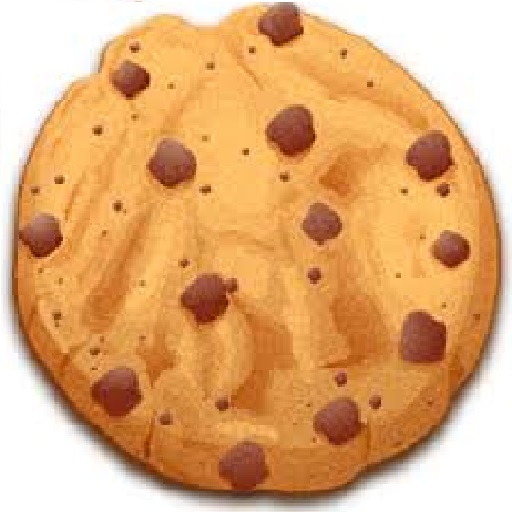
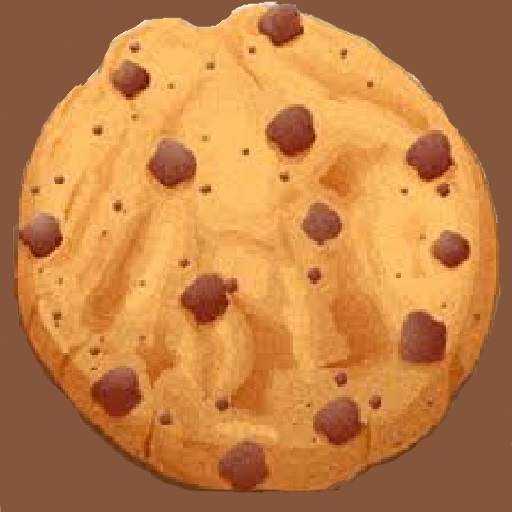
work from home

Changed region(s): [[0.0, 0.0, 1.0, 1.0]]

diff --git a/src/gameFiles/MainGame.java b/src/gameFiles/MainGame.java
@@ -4,6 +4,7 @@ import java.awt.BorderLayout;
 import java.awt.Color;
 import java.awt.FlowLayout;
 import java.awt.Font;
+import java.awt.event.MouseAdapter;
 import java.awt.event.MouseEvent;
 import java.awt.event.MouseListener;
 import java.awt.image.BufferedImage;
@@ -13,47 +14,97 @@ import javax.imageio.*;
 import javax.swing.*;
 
 public class MainGame implements MouseListener {
-
+	
+	//FINAL PIXEL LENGTHS (CONSTANTS)
 	static final int JFRAME_HEIGHT = 1080;
 	static final int JFRAME_LENGTH = 1920;
+	static final int vertcent = JFRAME_HEIGHT/2;
+	static final int horizcent = JFRAME_LENGTH/2;
 
+	//GAME TOOLS
+	private static int framecount;
 	static int score = 0;
+	static int cumulative_score = 0;
 	private int score_multiplier;
+	private static String cooklvstr = "";
+	private static int cooklvint = 0;
+	private final static int THRESHOLD1 = 5000;
+	private static boolean passedTH1;
+	private static boolean passedTH2;
+	private final static int THRESHOLD2 = 20000;
 
+	//J STUFF
 	private static JFrame frame = new JFrame("Cookie Clicker");
 	private static JTextArea ccta = new JTextArea("Cookies: " + score);
+	private static JPanel cookiepanel = new JPanel();
 
 	public MainGame() {
 		score_multiplier = 1;
+		framecount = 0;
+		passedTH1 = false;
+		passedTH2 = false;
 }
 
 	public static void main(String [] args) throws IOException {
 
 	/**********************INSTANTIATE********************************/
 		frame.setLayout(new BorderLayout());
-		JPanel cookiepanel = new JPanel();
 		ccta.setFont(new Font("Comic Sans MS", Font.BOLD, 40));
-    /***************ADD IMAGE AND CENTER WEST [LEFT]*******************/
-		BufferedImage cookimg = ImageIO.read(new File("H:\\Pics\\Cookie.png"));
+		JLabel bg1 = new JLabel();
+		bg1.setOpaque(true);
+		bg1.setBackground(new Color(132, 86, 60));
+		bg1.setLayout(null);
+		bg1.setBounds(0, 56, JFRAME_LENGTH-512, vertcent-247-40);
+		JLabel bg2 = new JLabel();
+		bg2.setOpaque(true);
+		bg2.setBackground(new Color(132, 86, 60));
+		bg2.setLayout(null);
+		bg2.setBounds(0, vertcent+256, JFRAME_LENGTH-512, JFRAME_HEIGHT-vertcent-256);
+    /***************ADD IMAGE AND CENTER WEST [LEFT]******************/
+		BufferedImage cookimg = ImageIO.read(new File("D:\\Everything else\\Eclipse\\TheGame\\src\\pics\\Cookie.jpg"));
 		JLabel label = new JLabel(new ImageIcon(cookimg));
 		cookiepanel.setLayout(new BorderLayout());
 		cookiepanel.add(label, BorderLayout.WEST);
-    /*****************************************************************/
+    /*************************JFRAME STUFF****************************/
+		frame.add(bg1);
+		frame.add(bg2);
 		frame.add(ccta, BorderLayout.NORTH);
 		frame.add(cookiepanel);
-		label.setLocation(10,10);
 		frame.setSize(JFRAME_LENGTH, JFRAME_HEIGHT);
 		frame.getContentPane().setBackground(Color.WHITE);
         frame.setLocationRelativeTo(null);
         frame.setDefaultCloseOperation(JFrame.EXIT_ON_CLOSE);
+        frame.setExtendedState(JFrame.MAXIMIZED_BOTH);
         frame.setVisible(true);
-
+    /****************************RUN GAME*****************************/
        runGame();
+    /**************************END OF MAIN****************************/
    }
 
-	public static void runGame() {
+	public static void runGame() throws IOException {
 		while(true) {
+			framecount++;
 			updateText(ccta);
+			frame.addMouseListener(new MouseAdapter() { 
+		          public void mousePressed(MouseEvent me) { 
+		            mouseClicked(me);
+		            System.out.println("MOUSE PRESSED");
+		          } 
+		        }); 
+			if(cumulative_score > THRESHOLD1) {
+				if(!passedTH1) {
+					upgradeCookie();
+					passedTH1 = true;
+				}
+			}
+			if(cumulative_score > THRESHOLD2) {
+				if(!passedTH2) {
+					upgradeCookie();
+					passedTH2 = true;
+				}
+			}
+			frame.setSize(JFRAME_LENGTH, JFRAME_HEIGHT);
+			frame.setExtendedState(JFrame.MAXIMIZED_BOTH);
 		}
 	}
 
@@ -61,20 +112,31 @@ public class MainGame implements MouseListener {
 		ta.setText("Cookies: " + score);
 		frame.add(ta);
 	}
+	
+	public static void updateImg(BufferedImage bi) {
+		JLabel newimglabel = new JLabel(new ImageIcon(bi));
+		cookiepanel.removeAll();
+		cookiepanel.add(newimglabel, BorderLayout.WEST);
+	}
 
 	public void mouseClicked(MouseEvent e) {
-		int vertcent = JFRAME_HEIGHT/2;
-		int horizcent = JFRAME_LENGTH/2;
 		if((e.getX()<512) && (Math.abs(e.getY()-vertcent)<256)){
 		cookieClicked();
 		}
 	}
 
 	public void cookieClicked() {
-   	System.out.println("COOKIE CLICKED!");
-   	score += score_multiplier;
+		System.out.println("COOKIE CLICKED!");
+		score += score_multiplier;
+		cumulative_score += score_multiplier;
    	}
-
+	
+	public static void upgradeCookie() throws IOException {
+		cooklvint++;
+		cooklvstr = String.valueOf(cooklvint);
+		BufferedImage bi = ImageIO.read(new File("D:\\Everything else\\Eclipse\\TheGame\\src\\pics\\Cookie"+ cooklvstr + ".jpg"));
+		updateImg(bi);
+	}
 
 	public int getScore() {
 		return score;
